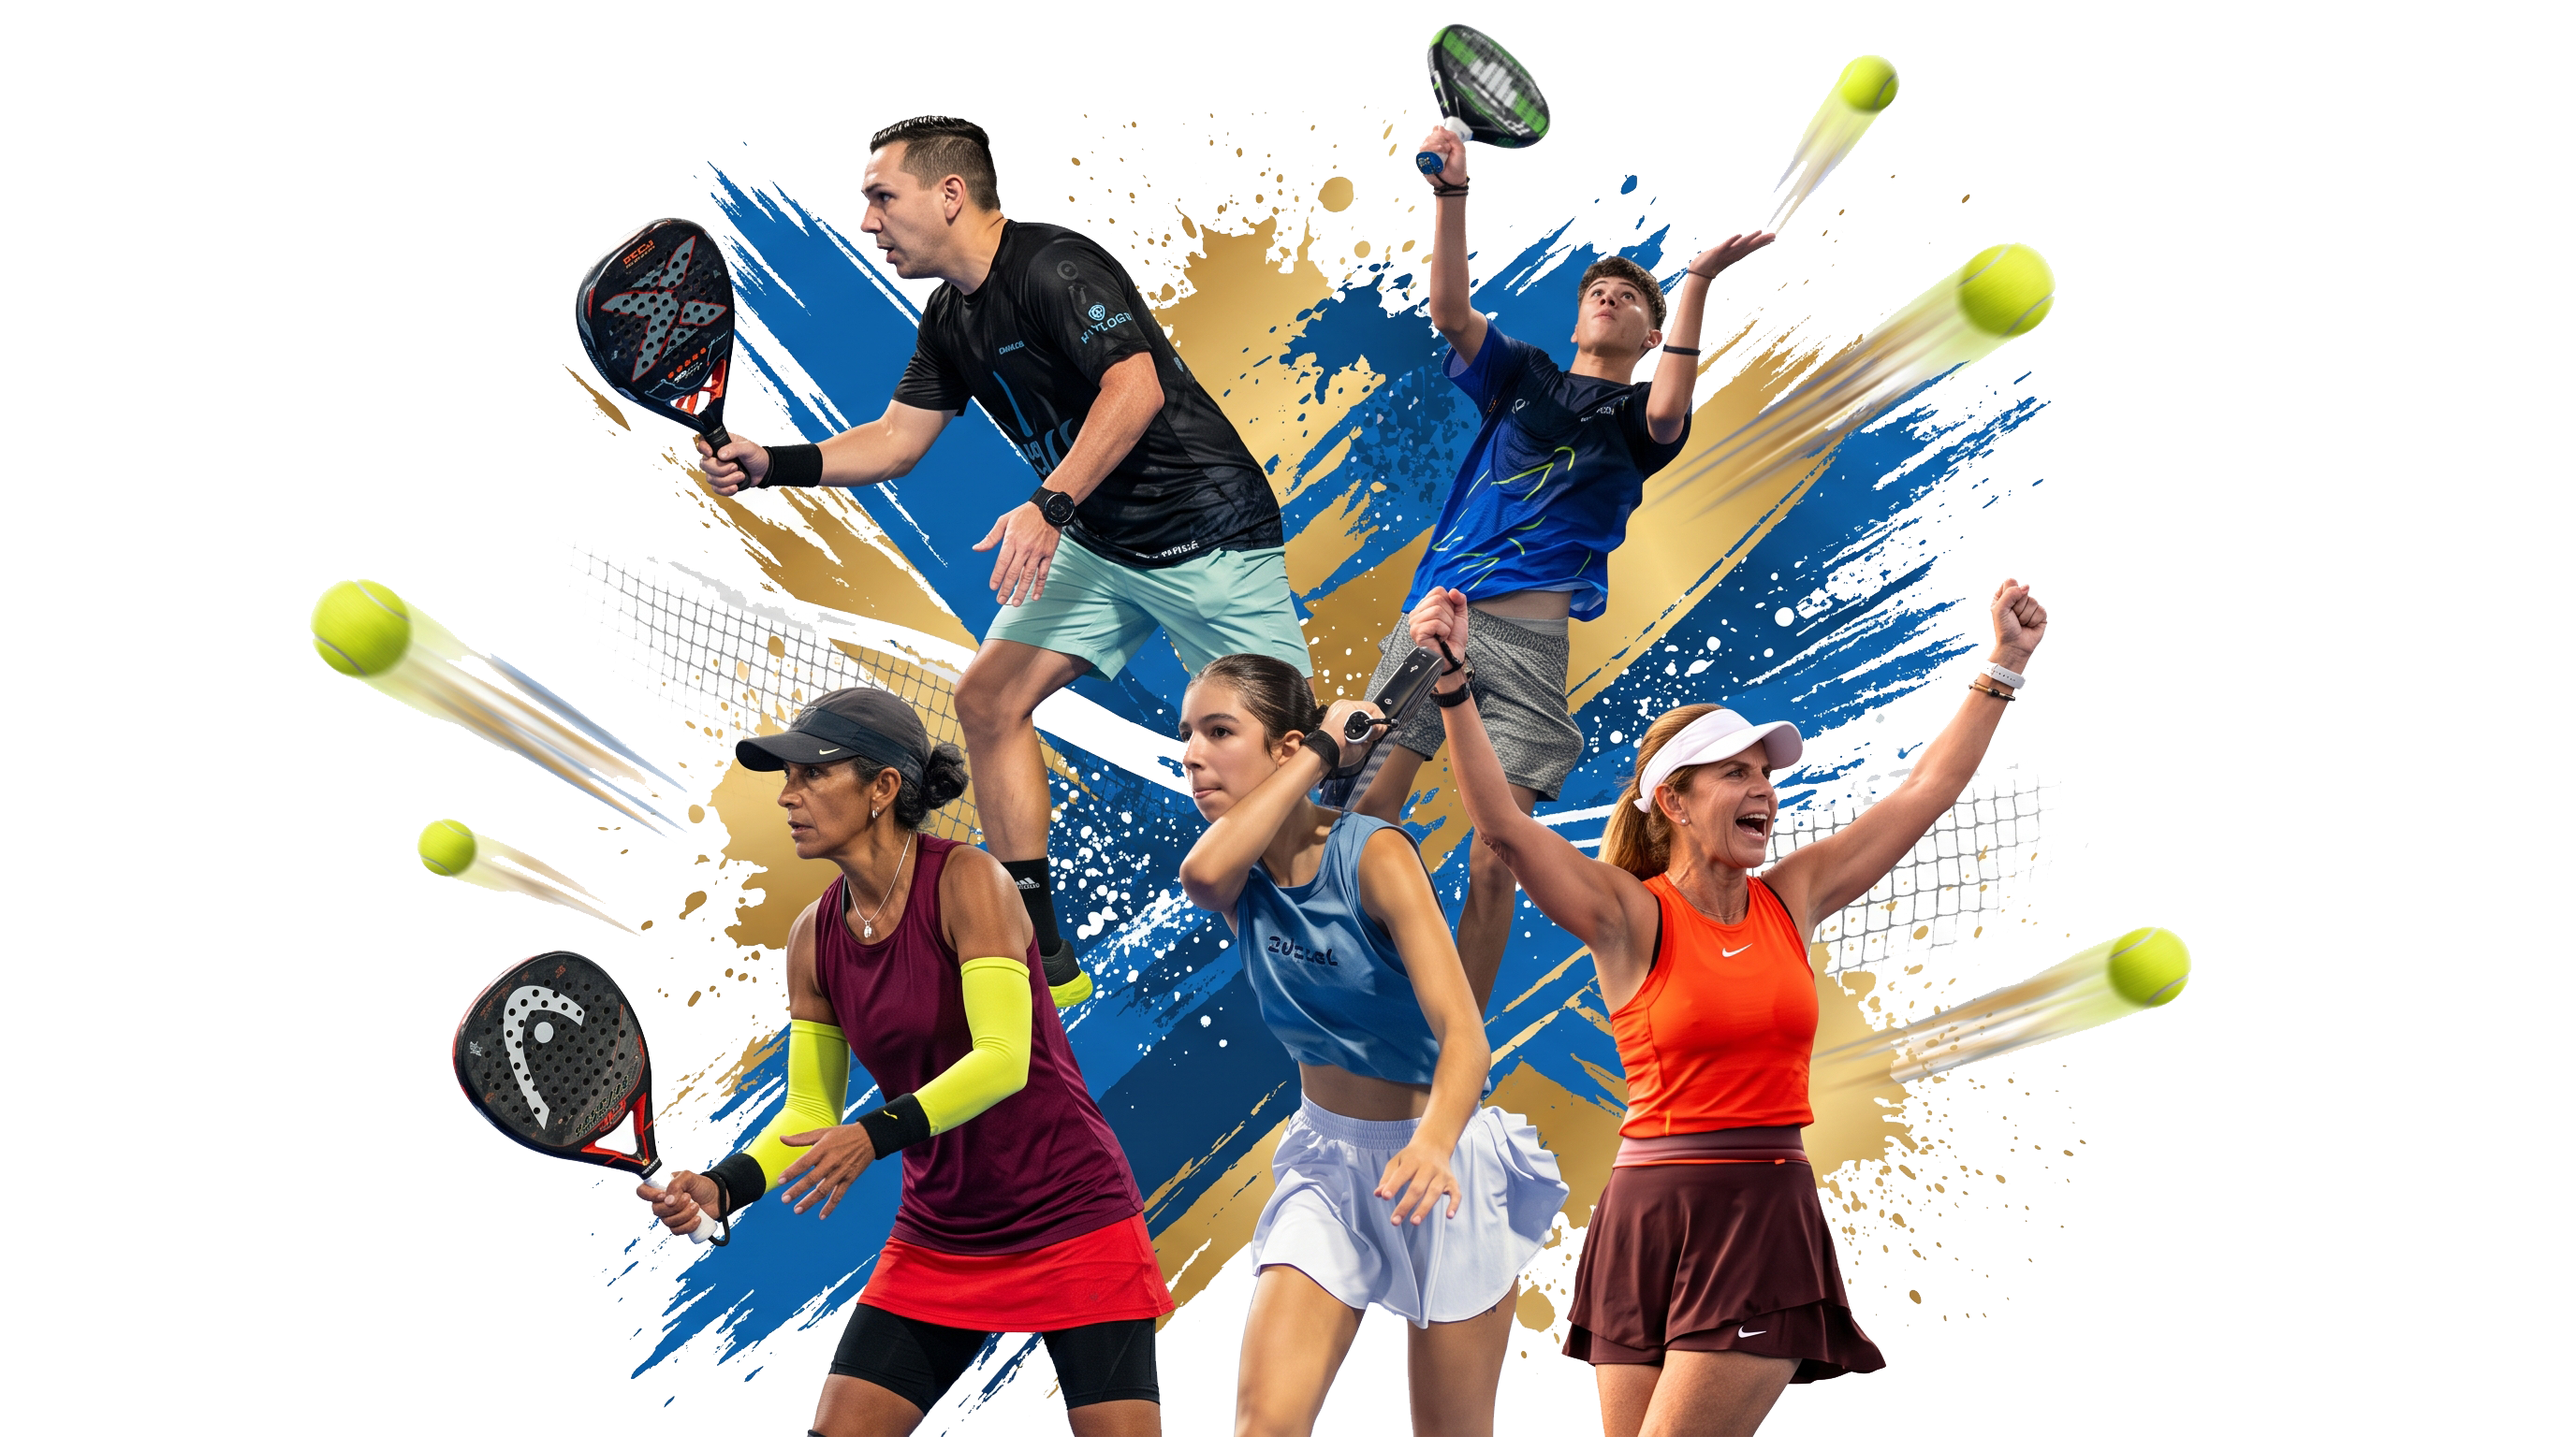
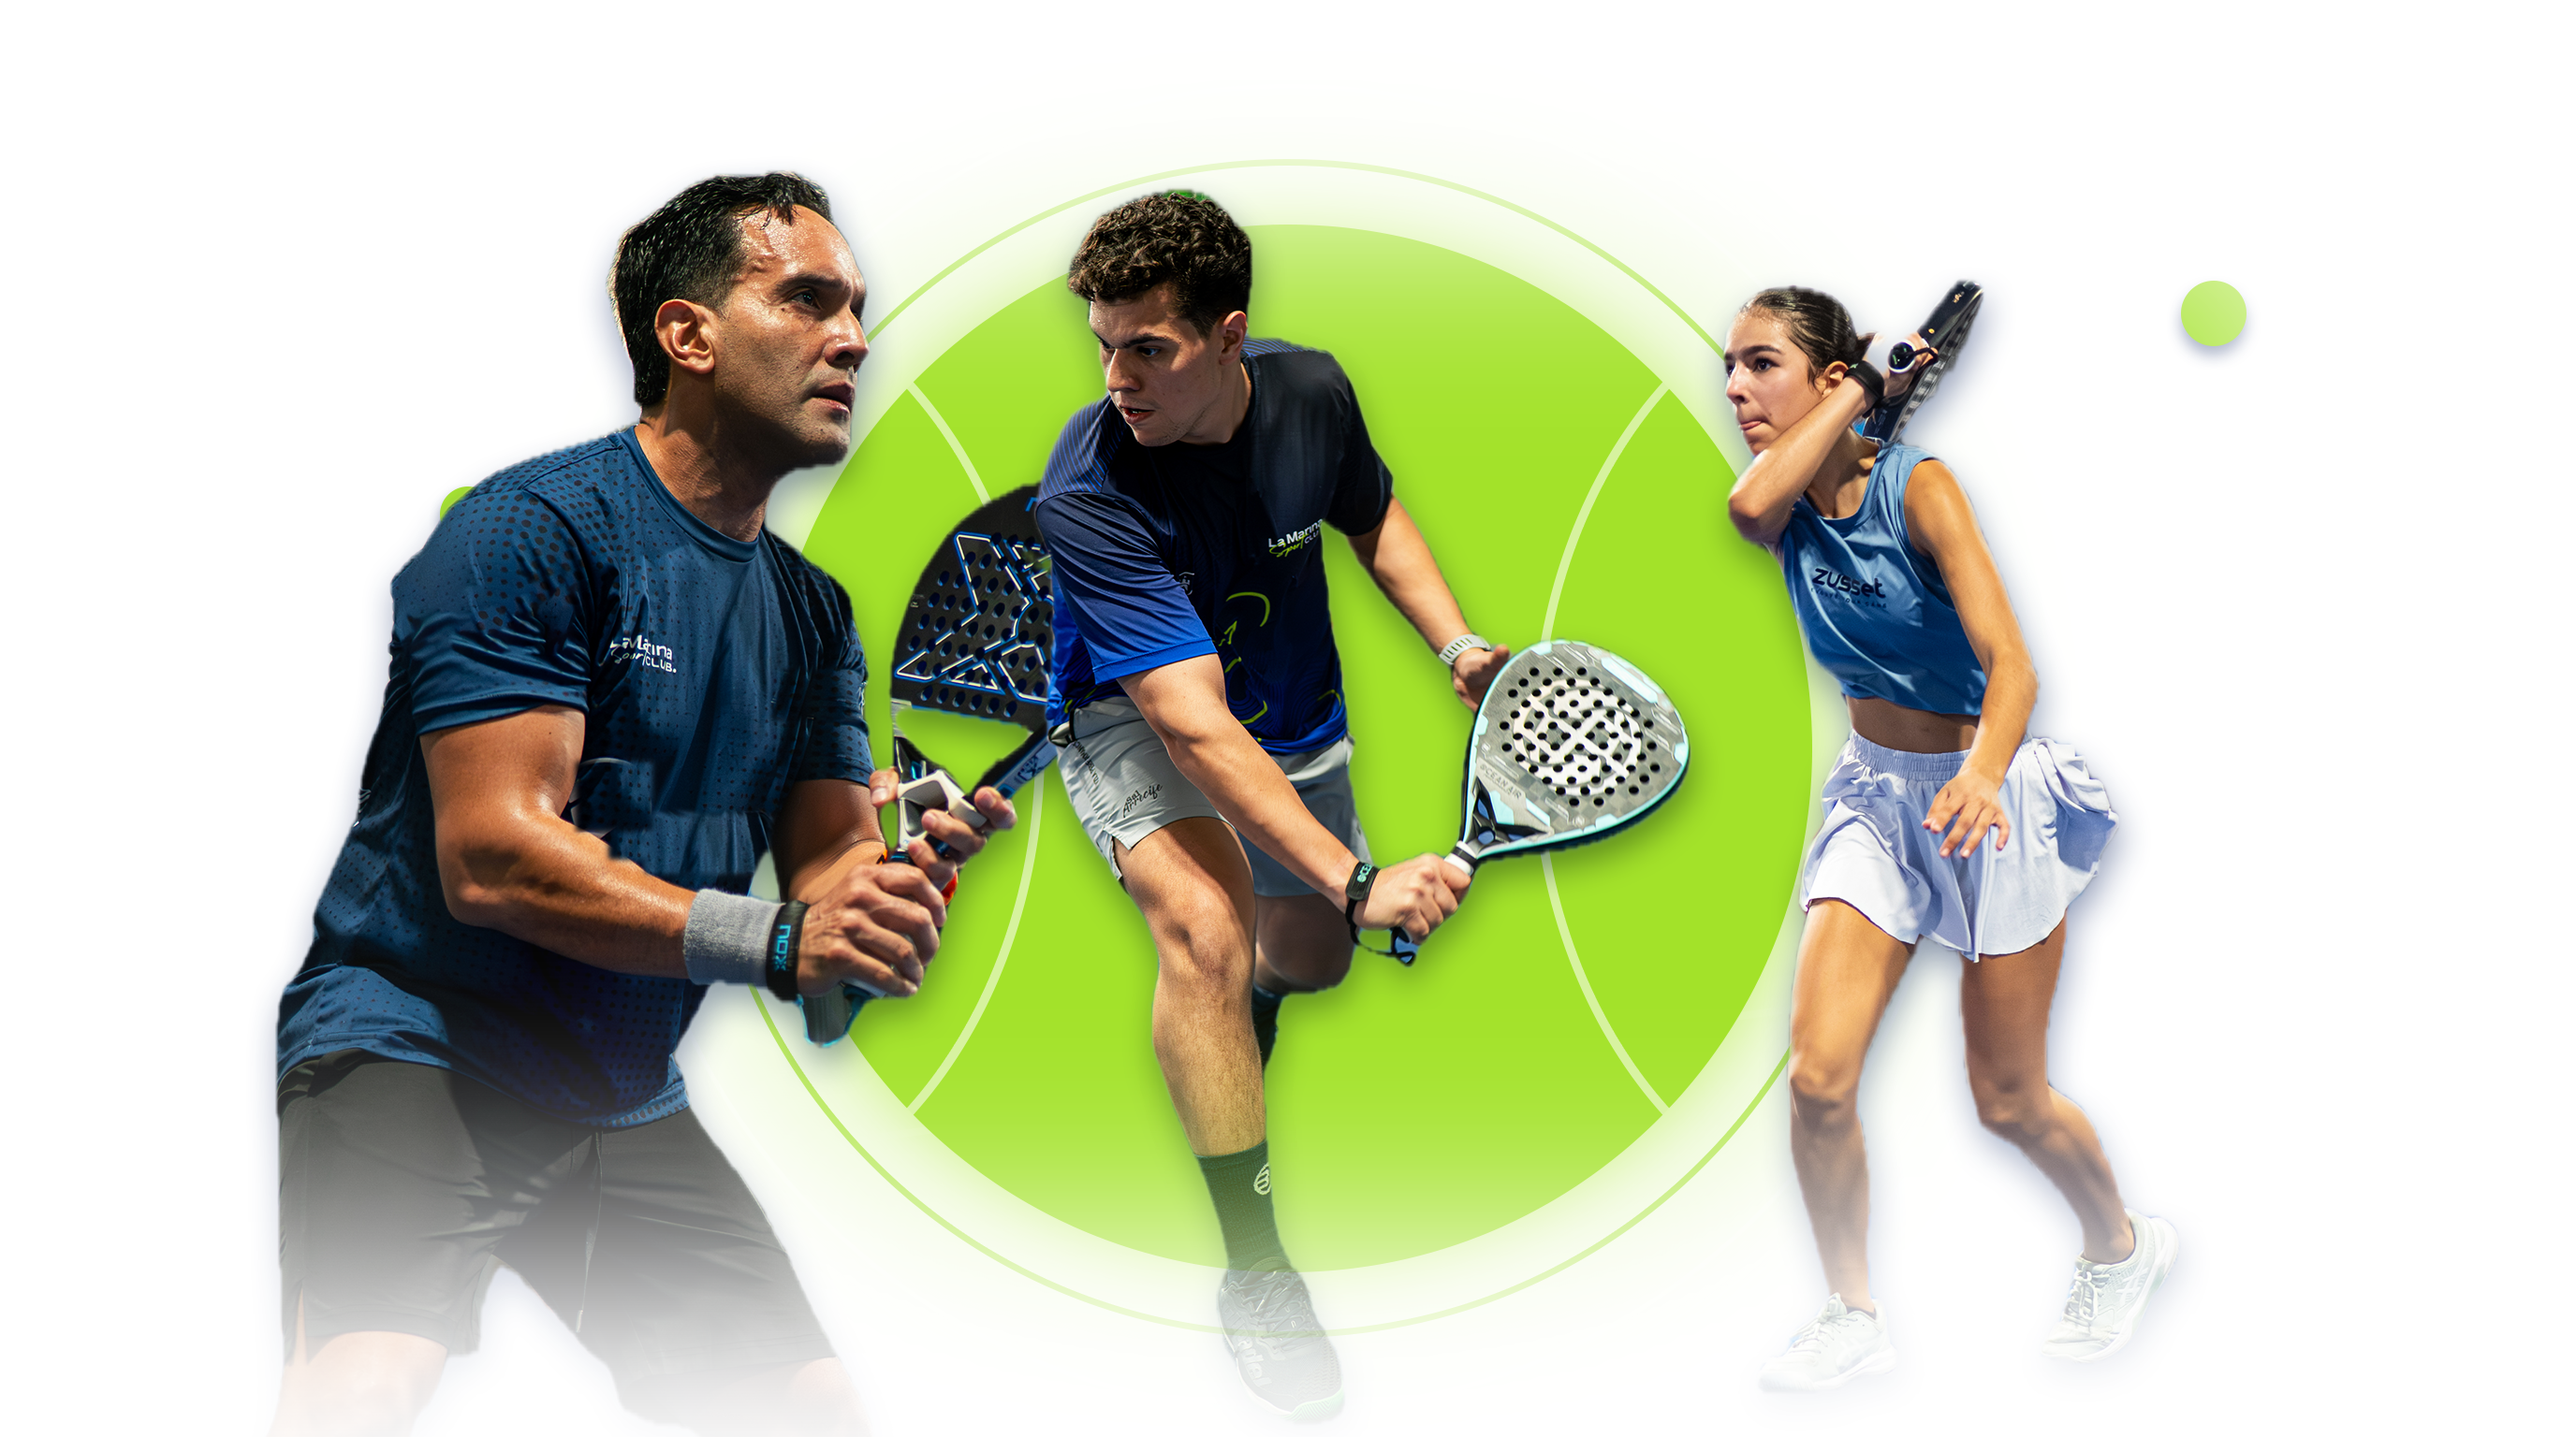
Actualizacion de inversion a $170 ($85 por jugador), textos oficiales de franela e hidratacion en pista, y gestion de fotos del hero e inversion/beneficios desde admin dashboard

diff --git a/src/components/Hero.jsx b/src/components/Hero.jsx
@@ -35,7 +35,7 @@ export default function Hero() {
         <div className="grid grid-cols-1 lg:grid-cols-12 gap-6 lg:gap-8 items-center">
           
           {/* COLUMNA IZQUIERDA: Copa Navidad 2026 y Botón Inscríbete Aquí */}
-          <div className="lg:col-span-6 text-center lg:text-left">
+          <div className="lg:col-span-5 text-center lg:text-left">
             
             {/* Cinta superior: Cupos Limitados */}
             <div className="inline-flex items-center gap-2 px-3.5 py-1.5 rounded-full bg-[#A3E229]/15 border border-[#A3E229]/60 text-[#A3E229] text-xs font-extrabold tracking-wider uppercase mb-3 shadow-[0_0_20px_rgba(163,226,41,0.25)] backdrop-blur-md">
@@ -46,10 +46,10 @@ export default function Hero() {
 
             {/* Título Principal: COPA NAVIDAD 2026 (con la O normal y tipografía oficial del Brandbook Orbitron) */}
             <div className="font-orbitron font-black tracking-tight uppercase leading-[0.95] mb-4 select-none">
-              <div className="text-4xl sm:text-6xl md:text-7xl lg:text-8xl text-white drop-shadow-[0_4px_30px_rgba(0,0,0,0.8)]">
+              <div className="text-4xl sm:text-6xl md:text-7xl lg:text-7xl xl:text-8xl text-white drop-shadow-[0_4px_30px_rgba(0,0,0,0.8)]">
                 COPA NAVIDAD
               </div>
-              <div className="text-4xl sm:text-6xl md:text-7xl lg:text-8xl text-[#A3E229] drop-shadow-[0_0_35px_rgba(163,226,41,0.6)] mt-1 font-black">
+              <div className="text-4xl sm:text-6xl md:text-7xl lg:text-7xl xl:text-8xl text-[#A3E229] drop-shadow-[0_0_35px_rgba(163,226,41,0.6)] mt-1 font-black">
                 2026
               </div>
             </div>
@@ -144,7 +144,7 @@ export default function Hero() {
           </div>
 
           {/* COLUMNA DERECHA: Atletas Oficiales de La Marina (SIN CUADROS, SIN FONDOS, INTEGRADOS AL BANNER) */}
-          <div className="lg:col-span-6 relative flex items-center justify-center mt-8 sm:mt-6 lg:mt-0 py-4 sm:py-2 lg:py-8">
+          <div className="lg:col-span-7 xl:col-span-7 relative flex items-center justify-center mt-6 sm:mt-8 lg:mt-0 py-3 sm:py-4 lg:py-6 overflow-visible">
             {config.heroVisualMode === 'grid' ? (
               /* MODO CUADRÍCULA CLÁSICA (4 Tarjetas de Fotos por Categoría) */
               <>
@@ -190,15 +190,15 @@ export default function Hero() {
               </>
             ) : (
               /* MODO ATLETAS OFICIALES INTEGRADOS AL BANNER (SIN CUADROS, SIN FONDOS) */
-              <div className="relative w-full flex items-center justify-center py-2 sm:py-0">
-                {/* Resplandor difuso atmosférico suave de cancha detrás de los atletas */}
-                <div className="absolute inset-0 bg-gradient-to-tr from-[#2a39d1]/35 via-[#A3E229]/25 to-transparent rounded-full blur-3xl pointer-events-none transform scale-125"></div>
+              <div className="relative w-full flex items-center justify-center py-1 sm:py-2">
+                {/* Resplandor difuso atmosférico suave de cancha detrás de los atletas con halo verde lima neón y azul */}
+                <div className="absolute inset-0 bg-gradient-to-tr from-[#2a39d1]/45 via-[#A3E229]/35 to-[#0a389c]/25 rounded-full blur-2xl sm:blur-3xl pointer-events-none transform scale-110 sm:scale-125"></div>
                 
-                {/* Imagen de los atletas sin fondo, parte del banner (+25% en desktop y +20% en móvil) */}
+                {/* Imagen oficial de los atletas optimizada al máximo en Mobile, Tablet y Desktop */}
                 <img 
-                  src={config.heroBannerImage || './assets/banner2.png'} 
+                  src={config.heroBannerImage || './assets/hero_banner_oficial.png'} 
                   alt="Atletas Copa Navidad La Marina Sport Club" 
-                  className="relative z-10 w-full max-w-[560px] sm:max-w-[640px] lg:max-w-[800px] xl:max-w-[880px] h-auto object-contain filter drop-shadow-[0_20px_45px_rgba(0,0,0,0.65)] transform scale-[1.20] sm:scale-100 lg:scale-[1.25] origin-center transition-transform duration-500 pointer-events-none select-none my-2 sm:my-0 lg:my-0"
+                  className="relative z-10 w-[116%] -mx-[8%] sm:mx-0 sm:w-full max-w-[540px] sm:max-w-[680px] md:max-w-[780px] lg:max-w-none lg:w-[128%] xl:w-[135%] h-auto object-contain filter drop-shadow-[0_25px_50px_rgba(0,0,0,0.7)] hover:scale-[1.02] transition-transform duration-500 pointer-events-none select-none my-2 sm:my-0"
                 />
               </div>
             )}

diff --git a/src/components/AdminDashboard.jsx b/src/components/AdminDashboard.jsx
@@ -991,14 +991,14 @@ export default function AdminDashboard({ onLogout, currentUser }) {
                     <span className="text-xs font-bold text-slate-300">Variante rápida:</span>
                     <button
                       type="button"
-                      onClick={() => setLandingForm(prev => ({ ...prev, heroBannerImage: './assets/banner2.png' }))}
+                      onClick={() => setLandingForm(prev => ({ ...prev, heroBannerImage: './assets/hero_banner_oficial.png' }))}
                       className={`px-3 py-1.5 rounded-lg text-xs font-bold transition-all ${
-                        (landingForm.heroBannerImage || './assets/banner2.png').includes('banner2')
+                        (landingForm.heroBannerImage || './assets/hero_banner_oficial.png').includes('hero_banner_oficial') || (landingForm.heroBannerImage || '').includes('banner2')
                           ? 'bg-[#A3E229] text-[#150D8B] shadow-md'
                           : 'bg-navy-800 text-slate-300 hover:text-white border border-slate-700'
                       }`}
                     >
-                      Banner 2 (Compacto 5 Atletas)
+                      Imagen Oficial (Atletas LMSC)
                     </button>
                     <button
                       type="button"
@@ -1016,7 +1016,7 @@ export default function AdminDashboard({ onLogout, currentUser }) {
                   <div className="flex flex-col md:flex-row items-center gap-4 p-3 rounded-xl bg-[#071f5c]/60 border border-blue-400/30">
                     <div className="relative w-48 h-32 sm:w-56 sm:h-36 rounded-xl overflow-hidden border border-blue-400/40 shadow-inner shrink-0 bg-gradient-to-b from-[#0a389c] to-[#071f5c] flex items-center justify-center p-2">
                       <img 
-                        src={landingForm.heroBannerImage || './assets/banner2.png'} 
+                        src={landingForm.heroBannerImage || './assets/hero_banner_oficial.png'} 
                         alt="Atletas Copa Navidad LMSC" 
                         className="w-full h-full object-contain filter drop-shadow-md"
                       />
@@ -1029,9 +1029,9 @@ export default function AdminDashboard({ onLogout, currentUser }) {
                         </label>
                         <input
                           type="text"
-                          value={landingForm.heroBannerImage && landingForm.heroBannerImage.startsWith('data:') ? '(Imagen personalizada subida en base64)' : (landingForm.heroBannerImage || './assets/banner2.png')}
+                          value={landingForm.heroBannerImage && landingForm.heroBannerImage.startsWith('data:') ? '(Imagen personalizada subida en base64)' : (landingForm.heroBannerImage || './assets/hero_banner_oficial.png')}
                           onChange={(e) => setLandingForm(prev => ({ ...prev, heroBannerImage: e.target.value }))}
-                          placeholder="./assets/banner2.png o https://..."
+                          placeholder="./assets/hero_banner_oficial.png o https://..."
                           className="w-full px-3 py-2 rounded-xl bg-navy-800 text-white border border-slate-600 text-xs truncate"
                         />
                       </div>
@@ -1063,11 +1063,11 @@ export default function AdminDashboard({ onLogout, currentUser }) {
 
                         <button
                           type="button"
-                          onClick={() => setLandingForm(prev => ({ ...prev, heroBannerImage: './assets/banner2.png' }))}
+                          onClick={() => setLandingForm(prev => ({ ...prev, heroBannerImage: './assets/hero_banner_oficial.png' }))}
                           className="px-3.5 py-2 rounded-xl bg-navy-800 hover:bg-navy-700 text-slate-300 hover:text-white text-xs font-bold flex items-center gap-1.5 border border-slate-700 transition-colors"
                         >
                           <RotateCcw className="w-3.5 h-3.5" />
-                          <span>Restaurar Banner 2 Oficial</span>
+                          <span>Restaurar Oficial</span>
                         </button>
                       </div>
                     </div>

diff --git a/src/services/firebase.js b/src/services/firebase.js
@@ -170,7 +170,7 @@ export const DEFAULT_LANDING_CONFIG = {
   heroFotos: DEFAULT_HERO_FOTOS,
   heroMontageFotos: DEFAULT_HERO_MONTAGE_FOTOS,
   heroPosterImage: './assets/hero_poster_championship.jpg',
-  heroBannerImage: './assets/banner2.png',
+  heroBannerImage: './assets/hero_banner_oficial.png',
   parejasSubtitulo: 'Listado oficial de duplas con inscripción y pago verificado por el comité organizador',
   cuposLimitados: 'Cupos Limitados',
   montoInscripcion: '$170',
